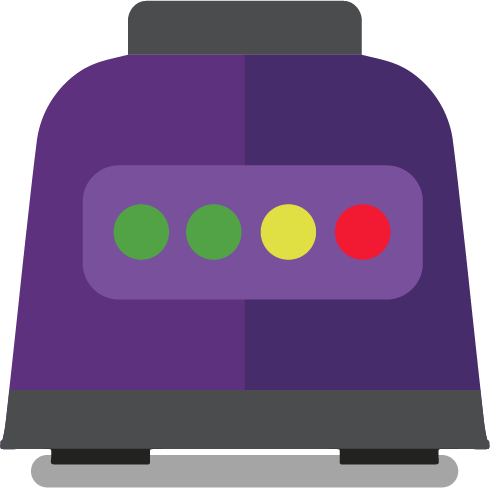
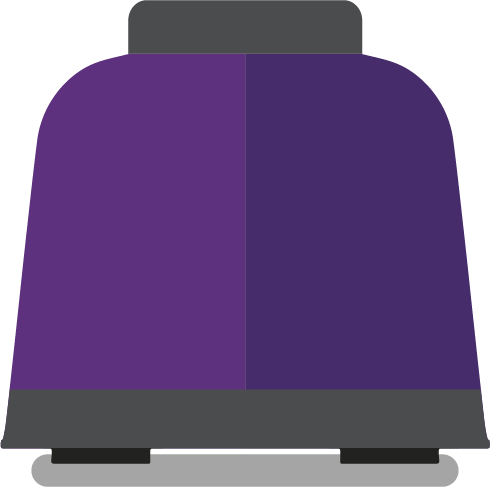
(Fix): corrigindo dismiss do pop up final

diff --git a/Mixed Juice.playground/Sources/Views/Game/EndGameView.swift b/Mixed Juice.playground/Sources/Views/Game/EndGameView.swift
@@ -8,47 +8,78 @@ struct EndGameView: View {
     
     public init(game: GameEnvironment) {
         self.game = game
-        self.win = self.game.checkWinner()
+        self.win = self.game.checkWinner()        
     }
-    
     
     var body: some View {
         GeometryReader { geometry in
-            ZStack {
-                Image(uiImage: popUpBackground)
-                    .resizable()
-                    .frame(width: geometry.size.width, height: geometry.size.height, alignment: .center)
-                
-                VStack {
-                    Text(self.win ? "Congratulations" : "Oh... you didn't make it.")
-                        .font(.custom("YgroSansBeta-Bold", size: 36))
-                        .padding(.all)
+            
+            if self.game.gameEnded{
+                ZStack {
+                    Image(uiImage: popUpBackground)
+                        .resizable()
+                        .frame(width: geometry.size.width, height: geometry.size.height, alignment: .center)
                     
-                    Text(self.win ? "You unveiled my secret recipe in \(self.game.currentRound) attempts!" : "You failed to unravel my receipe in 8 attempts.\nBut still, I will give the answer.")
-                        .font(.custom("YgroSansBeta-Medium", size: 24))
-                        .multilineTextAlignment(.center)
-                        .padding([.horizontal, .bottom])
-                    
-                    Text(self.win ? "Now you can say that you are becoming a master\nin the art of making juices. " :  "Write it down so you don't forget. Let's try another receipe?")
-                        .font(.custom("YgroSansBeta-Book", size: 20))
-                        .multilineTextAlignment(.center)
-                    
-                    HStack {
-                        Button(action: {
-                            self.settings.page = 0
-                        }, label: {
-                            Text("Back to Menu")
-                        })
+                    VStack {
+                        Text(self.win ? "Congratulations" : "Oh... you didn't make it.")
+                            .font(.custom("YgroSansBeta-Bold", size: 36))
+                            .padding(.all)
                         
-                        Button(action: {
-                            self.game.newGame()
-                            self.settings.page = 1
-                        }, label: {
-                            Text("Try Another Receipe")
-                        })
+                        Text(self.win ? "You unveiled my secret recipe in \(self.game.currentRound) attempt \(self.game.currentRound > 1 ? "s" : "")!" : "You failed to unravel my receipe in 8 attempts.\nBut still, I will give the answer.")
+                            .font(.custom("YgroSansBeta-Medium", size: 24))
+                            .multilineTextAlignment(.center)
+                            .padding([.horizontal, .bottom])
                         
-                    }.padding()
-                    
+                        HStack {
+                            Image(uiImage: UIImage(imageLiteralResourceName: self.game.secretReceipe[0]))
+                                .resizable()
+                                .frame(width: 90, height: 90, alignment: /*@START_MENU_TOKEN@*/.center/*@END_MENU_TOKEN@*/)
+                                .scaledToFill()
+                                .padding()
+                            
+                            Image(uiImage: UIImage(imageLiteralResourceName: self.game.secretReceipe[1]))
+                                .resizable()
+                                .frame(width: 90, height: 90, alignment: /*@START_MENU_TOKEN@*/.center/*@END_MENU_TOKEN@*/)
+                                .scaledToFill()
+                                .padding()
+                            
+                            Image(uiImage: UIImage(imageLiteralResourceName: self.game.secretReceipe[2]))
+                                .resizable()
+                                .frame(width: 90, height: 90, alignment: /*@START_MENU_TOKEN@*/.center/*@END_MENU_TOKEN@*/)
+                                .scaledToFill()
+                                .padding()
+                            
+                            Image(uiImage: UIImage(imageLiteralResourceName: self.game.secretReceipe[3]))
+                                .resizable()
+                                .frame(width: 90, height: 90, alignment: /*@START_MENU_TOKEN@*/.center/*@END_MENU_TOKEN@*/)
+                                .scaledToFill()
+                                .padding()
+                        }
+                        .padding()
+                        
+                        Text(self.win ? "Now you can say that you are becoming a master\nin the art of making juices. " :  "Write it down so you don't forget. Let's try another receipe?")
+                            .font(.custom("YgroSansBeta-Book", size: 20))
+                            .multilineTextAlignment(.center)
+                        
+                        HStack {
+                            Button(action: {
+                                self.settings.page = 0
+                            }, label: {
+                                Image(uiImage: backMenuButtonImage)
+                                    .resizable()
+                                    .frame(width: 250, height: 67, alignment: .center)
+                            })
+                            
+                            Button(action: {
+                                self.game.newGame()
+                            }, label: {
+                                Image(uiImage: tryAgainButtonImage)
+                                    .resizable()
+                                    .frame(width: 250, height: 67, alignment: .center)
+                            })
+                            
+                        }.padding()
+                    }
                 }
             }
         }

diff --git a/Mixed Juice.playground/Sources/Views/Main/MainView.swift b/Mixed Juice.playground/Sources/Views/Main/MainView.swift
@@ -2,10 +2,8 @@ import SwiftUI
 
 // Backgrounds
 var menuBackgroundImage = UIImage(imageLiteralResourceName: "MenuBackground")
-var startButtonImage = UIImage(imageLiteralResourceName: "StartButton")
 var backgroundImage = UIImage(imageLiteralResourceName: "KitchenBackground")
 var receipeCardImage = UIImage(imageLiteralResourceName: "ReceipeCard")
-var card = UIImage(imageLiteralResourceName: "Card")
 var popUpBackground = UIImage(imageLiteralResourceName: "PopUpBackground")
 
 // Booth and Shelf
@@ -17,7 +15,6 @@ var smallBoothCleanImage = UIImage(imageLiteralResourceName: "SmallBoothClean")
 
 // Blender
 var baseBlenderImage = UIImage(imageLiteralResourceName: "BaseBlender")
-var baseBlenderCleanImage = UIImage(imageLiteralResourceName: "BaseBlenderClean")
 var cupBlenderImage = UIImage(imageLiteralResourceName: "CupBlender")
 var cupBlenderCleanImage = UIImage(imageLiteralResourceName: "CupBlenderClean")
 
@@ -40,6 +37,11 @@ var orangeCleanImage = UIImage(imageLiteralResourceName: "OrangeClean")
 var peachCleanImage = UIImage(imageLiteralResourceName: "PeachClean")
 var pearCleanImage = UIImage(imageLiteralResourceName: "PearClean")
 var strawberryCleanImage = UIImage(imageLiteralResourceName: "StrawberryClean")
+
+// Buttons
+var startButtonImage = UIImage(imageLiteralResourceName: "StartButton")
+var backMenuButtonImage = UIImage(imageLiteralResourceName: "BackMenuButton")
+var tryAgainButtonImage = UIImage(imageLiteralResourceName: "TryAgainButton")
 
 public struct MainView: View {
     @EnvironmentObject var settings: UserSettings

diff --git a/Mixed Juice.playground/Sources/Views/Game/BlenderView.swift b/Mixed Juice.playground/Sources/Views/Game/BlenderView.swift
@@ -87,7 +87,7 @@ struct BaseBlenderView: View {
         
         GeometryReader { geometry in
             ZStack{
-                Image(uiImage: baseBlenderCleanImage)
+                Image(uiImage: baseBlenderImage)
                     .resizable()
                     .frame(width: geometry.size.width, height: geometry.size.height, alignment: .center)
                 
@@ -227,7 +227,7 @@ struct SmallBaseBlenderView: View {
     
     var body: some View {
         ZStack {
-            Image(uiImage: baseBlenderCleanImage)
+            Image(uiImage: baseBlenderImage)
                 .resizable()
                 .frame(width: size, height: size, alignment: .center)
             

diff --git a/Mixed Juice.playground/Sources/Views/Game/GameView.swift b/Mixed Juice.playground/Sources/Views/Game/GameView.swift
@@ -172,7 +172,7 @@ public struct GameView: View {
             VStack {
                 EndGameView(game: self.game)
                     .frame(width: 676, height: 580, alignment: .center)
-                    .opacity(withAnimation(Animation.linear(duration: 5.0)) {self.game.gameEnded ? 1 : 0})
+                    .opacity(self.game.gameEnded ? 1 : 0)
             }
             .background(VisualEffectView(effect: UIBlurEffect(style: .dark))
                             .frame(width: 770, height: UIScreen.main.bounds.height, alignment: /*@START_MENU_TOKEN@*/.center/*@END_MENU_TOKEN@*/)

diff --git a/Mixed Juice.playground/Sources/Views/Game/CardReceipeView.swift b/Mixed Juice.playground/Sources/Views/Game/CardReceipeView.swift
@@ -76,7 +76,7 @@ struct CardReceipeView: View {
                 }
             }
         }
-        .background(Image(uiImage: card).resizable().frame(width: 350, height: 250, alignment: /*@START_MENU_TOKEN@*/.center/*@END_MENU_TOKEN@*/))
+        .background(Image(uiImage: receipeCardImage).resizable().frame(width: 350, height: 250, alignment: /*@START_MENU_TOKEN@*/.center/*@END_MENU_TOKEN@*/))
     }
     
 }
